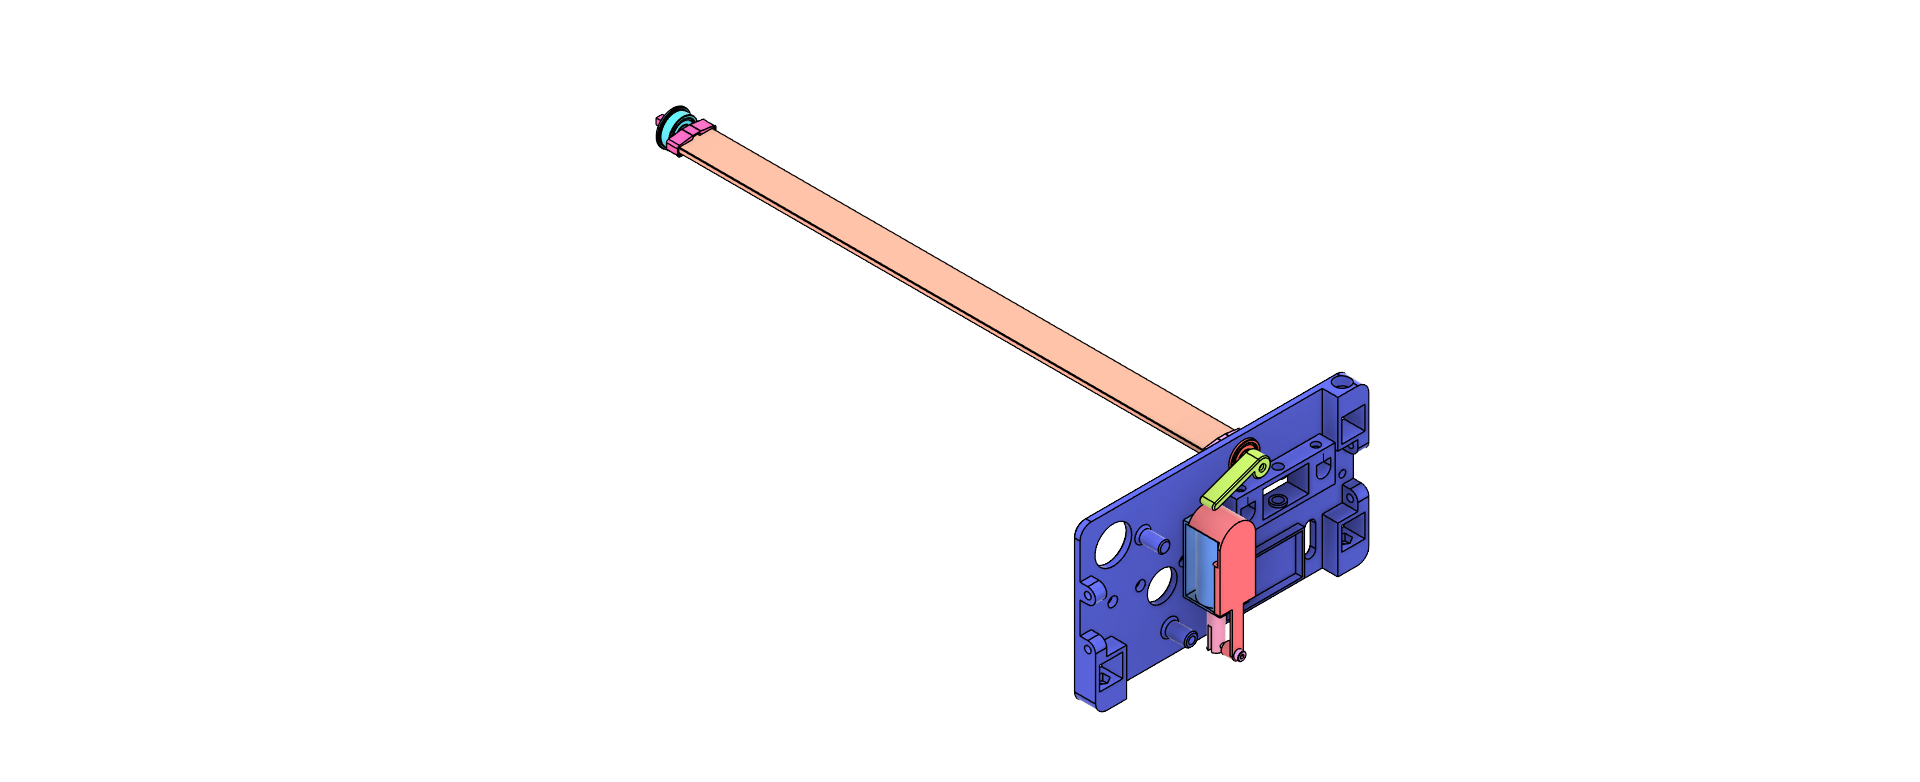
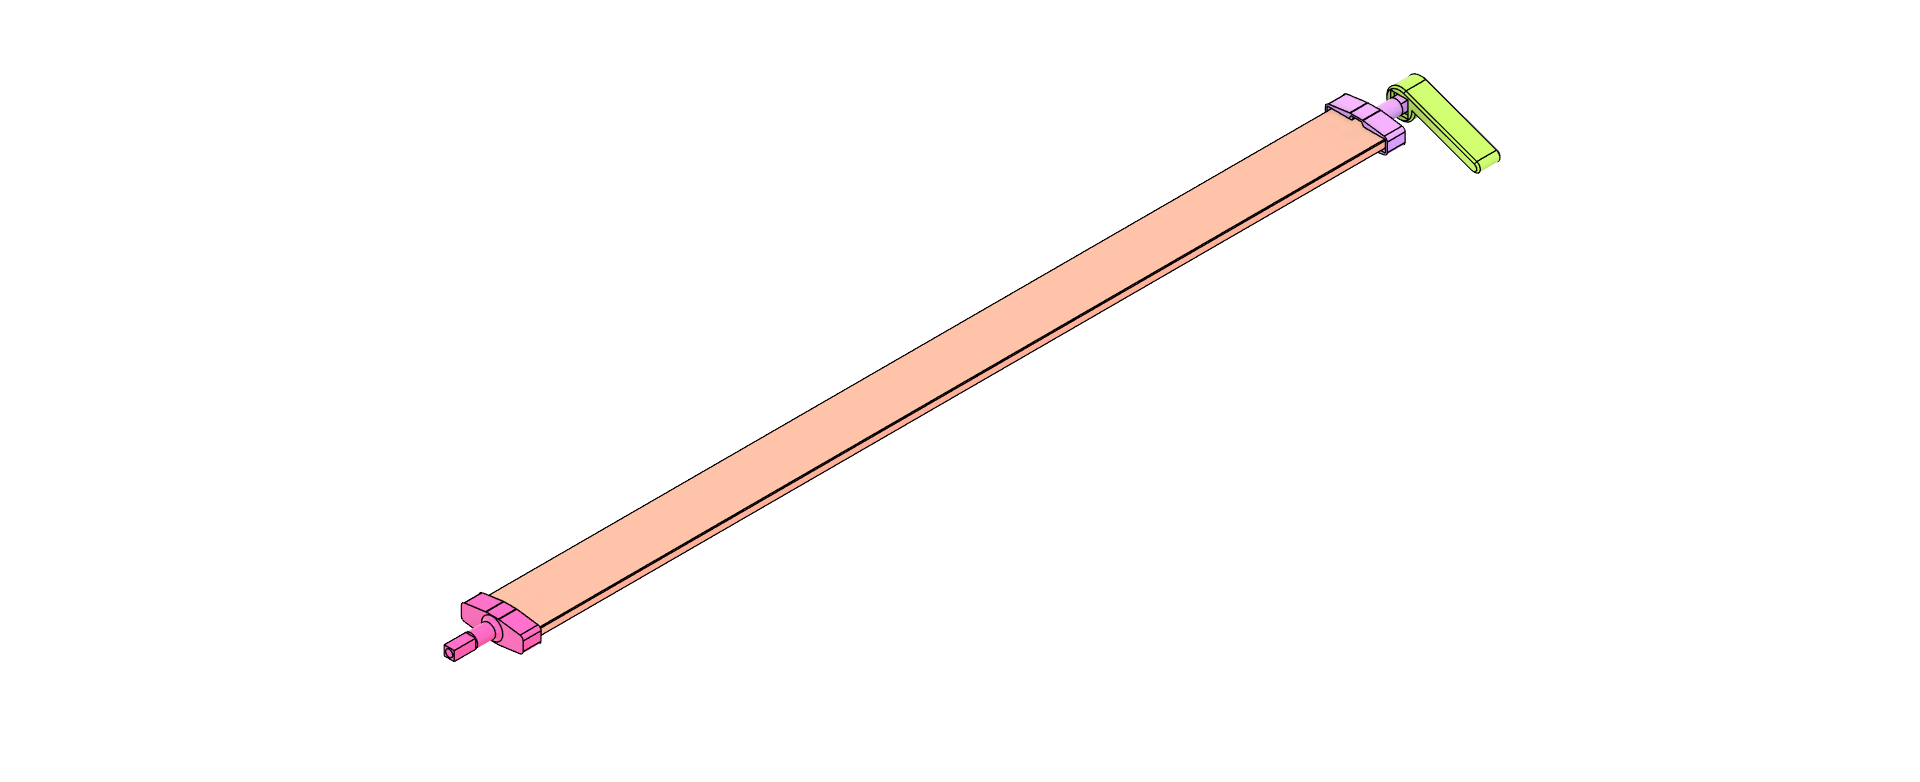
Improved readme and renderings

Changed region(s): [[0.2188, 0.0921, 0.7812, 0.9207]]

diff --git a/README.md b/README.md
@@ -1,14 +1,18 @@
-# gcode pen plotter
+# G-code Pen Plotter
 
-Plotter for drawing vector graphics in gcode format with a pen:
 
-- Use any pin up to 11mm diameter
-- rigid frame
-- low cost components
+
+This plotter draws vector graphics in G-code format using a pen.
+
+- Compatible with pens up to 11 mm in diameter
+- Rigid frame construction.
+- Uses affordable and widely available components.
 
 <img src="./print/zsb/full_nocolor.png" alt="full assembly"/>
 
-# Index
+
+
+# Table of Contents
 - [Mechanics](#Mechanics)
 - [Electronics](#Electronics)
 - [Software](#Software)
@@ -17,10 +21,10 @@ Plotter for drawing vector graphics in gcode format with a pen:
 
 ## Mechanics
 
-### 3D printed parts
+### 3D-Printed Parts
 
 | Quantity | Part | Material | Notes |
-| -------- | ---- | -------- | ----- |
+| ------- | ---- | -------- | ----- |
 | 1 | `./print/stl/carriage_penholder_base.stl`</BR><img src="./print/png/carriage_penholder_base.png"/> | PLA / PETG | |
 | 1 | `./print/stl/carriage_penholder_connector_fitting.stl`</BR><img src="./print/png/carriage_penholder_connector_fitting.png"/> | TPU | |
 | 1 | `./print/stl/carriage_penholder_connector_head.stl`</BR><img src="./print/png/carriage_penholder_connector_head.png"/> | PLA / PETG | |
@@ -32,27 +36,26 @@ Plotter for drawing vector graphics in gcode format with a pen:
 | 1 | `./print/stl/frame_front.stl`</BR><img src="./print/png/frame_front.png"/> | PLA / PETG |  |
 | 1 | `./print/stl/housing_back.stl`</BR><img src="./print/png/housing_back.png"/> | PLA / PETG | optional |
 | 1 | `./print/stl/housing_front.stl`</BR><img src="./print/png/housing_front.png"/> | PLA / PETG | optional |
-| 4 | `./print/png/housing_feet.stl`</BR><img src="./print/png/housing_feet.png"/> | TPU | Can use standard rubber dampers instead, e.g. https://de.aliexpress.com/item/1005008240903321.html |
-| 1 | `./print/stl/paper_guide_1.stl`</BR><img src="./print/png/paper_guide_1.png"/> | PLA / PETG | Use light supports |
-| 1 | `./print/stl/paper_guide_2.stl`</BR><img src="./print/png/paper_guide_2.png"/> | PLA / PETG | Use light supports |
+| 4 | `./print/png/housing_feet.stl`</BR><img src="./print/png/housing_feet.png"/> | TPU | Standard rubber dampers can be used instead, e.g. https://de.aliexpress.com/item/1005008240903321.html |
+| 1 | `./print/stl/paper_guide_1.stl`</BR><img src="./print/png/paper_guide_1.png"/> | PLA / PETG | Requires light supports. |
+| 1 | `./print/stl/paper_guide_2.stl`</BR><img src="./print/png/paper_guide_2.png"/> | PLA / PETG | Requires light supports. |
 | 1 | `./print/stl/paper_guide_lever.stl`</BR><img src="./print/png/paper_guide_lever.png"/> | PLA / PETG |  |
 | 2 | `./print/stl/paper_guide_pusher.stl`</BR><img src="./print/png/paper_guide_pusher.png"/> | PLA / PETG |  |
 | 2 | `./print/stl/paper_guide_roll_holder.stl`</BR><img src="./print/png/paper_guide_roll_holder.png"/> | PLA / PETG |  |
 | 4 | `./print/stl/paper_intake_support.stl`</BR><img src="./print/png/paper_intake_support.png"/> | PLA / PETG |  |
-| 1 | `./print/stl/shaft_connector_flange.stl`</BR><img src="./print/png/shaft_connector_flange.png"> | PLA / PETG | optional, if no standard couplers are used |
+| 1 | `./print/stl/shaft_connector_flange.stl`</BR><img src="./print/png/shaft_connector_flange.png"> | PLA / PETG | Optional, if standard couplers are not used. |
 | 1 | `./print/stl/shaft_end_flange.stl`</BR><img src="./print/png/shaft_end_flange.png"> | PLA / PETG |  |
-| 1 | `./print/stl/solenoid_slider.stl`</BR><img src="./print/png/solenoid_slider.png"> | PLA / PETG | If pull solenoid is used |
+| 1 | `./print/stl/solenoid_slider.stl`</BR><img src="./print/png/solenoid_slider.png"> | PLA / PETG | If a pull solenoid is used. |
 
-### Standard parts
-
-| Quantity | Part | Note |
-| -------- | ---- | ---- |
-| 3 | 12mm square rod aluminium/steel | min length for A4: 250mm w/o housing, 380mm with housing |
-| 2 | 6mm rounded aluminium/steel rod | min length for A4: 250mm |
-| 1 | 12mm shaft | min length for A4: 250mm |
+### Standard Parts
+| Quantity | Part | Notes |
+| ------- | ---- | ----- |
+| 3 | 12mm square rod aluminium/steel | Minimum length for A4: 250 mm without housing, 380 mm with housing. |
+| 2 | 6mm rounded aluminium/steel rod | Minimum length for A4: 250 mm. |
+| 1 | 12mm shaft | Minimum length for A4: 250 mm. |
 | 1 | Pull Solenoid 12V TAU-0530 | https://de.aliexpress.com/item/32748229525.html |
 | 4 | brass oil bar plain bearing, 6mm bore, 8mm outer diameter |  |
-| 4 | rubber foam dampers | optional, can also be printed. https://de.aliexpress.com/item/1005008240903321.html |
+| 4 | rubber foam dampers | Optional; can also be 3D-printed. https://de.aliexpress.com/item/1005008240903321.html |
 | 1 | 5mm/12mm shaft diameter couplings |
 | 3 | Stainless Steel Ball Bearing, Flanged | McMaster Part No: 57155K563 |
 | 2 | Stepper Motor with Square Body, NEMA 17 | McMaster Part No: 6627T64 |
@@ -64,50 +67,65 @@ Plotter for drawing vector graphics in gcode format with a pen:
 | 1 | hexagon nut, DIN 439-2 - M2 x 0.4 | For solenoid pin |
 | 22 | hexagon socket screw, DIN EN ISO 4762 - M3 x 6 | Standard screw used unless otherwise specified |
 | 4 | hexagon socket screw, DIN EN ISO 4762 - M3 x 30 | For shaft stepper |
-| 10 | hexagon nut, DIN 439-2 - M3 x 0.6 | Insert in front and back frame |
+| 10 | hexagon nut, DIN 439-2 - M3 x 0.6 | Insert into the front and back frame. |
 | 1 | threaded pin, DIN EN ISO 4027 - M4 x 16 | For timing belt idler |
-| 2 | hexagon socket screw, DIN EN ISO 4762 - M3 x 10 Stahl | For Carriage |
-| 2 | hexagon nut, DIN 439-2 - M5 x 0.8 | For Rollers |
-| 2 | hexagon socket screw, DIN EN ISO 4762 - M5 x 20 | For Rollers |
-| 2 | V nut POM wheel roller | Rollers |
+| 2 | hexagon socket screw, DIN EN ISO 4762 - M3 x 10 Stahl | For carriage. |
+| 2 | hexagon nut, DIN 439-2 - M5 x 0.8 | For rollers. |
+| 2 | hexagon socket screw, DIN EN ISO 4762 - M5 x 20 | For rollers. |
+| 2 | V nut POM wheel roller | For rollers. |
 
 
 ### Assembly
 
-Overview of base frame without supporting square rods:
+The following steps illustrate the assembly process. The order is chosen for clarity and may not reflect the optimal assembly sequence.
+
+
+Assemble the pen carriage, slide it over the rounded steel rods, and attach the timing pulley:
+<img src="./print/zsb/carriage.png.png">
+<img src="./print/zsb/carriage_timing_belt.png">
+
+Overview of the base frame structure with supporting square rods:
 <img src="./print/zsb/frame_front_back.png">
 
 
-Details paper guide and assembly to back of frame:
-<img src="./print/zsb/paper_guide.png">
-<img src="./print/zsb/back_paper_guide.png">
-
-
-Details flat steel lever:
+Slide the flanges onto the flat steel, insert them into the flanged bearing pressed into the frame, and secure by attaching the lever to the square rod of the flange. Install the solenoid and attach the slider cap:
 <img src="./print/zsb/flat_steel.png">
+<img src="./print/zsb/flat_steel_detail_back.png">
+<img src="./print/zsb/flat_steel_detail_front.png">
 
 
-Assemble shaft by screwing coupler to stepper, slide in steel shaft and fix with end flange to bearing on opposite frame:
+Assemble the paper guide by adding the rollers and lever, then insert it into the frame. Secure by screwing the lever to the back end and attaching the tension spring:
+<img src="./print/zsb/paper_guide.png">
+<img src="./print/zsb/paper_guide_detail_back.png">
+<img src="./print/zsb/paper_guide_detail_front.png">
+
+
+Assemble the shaft by attaching the coupler to the stepper, sliding in the steel shaft, and securing it with the end flange to the bearing on the opposite side of the frame:
 <img src="./print/zsb/shaft.png">
+<img src="./print/zsb/shaft_detail_back.png">
+<img src="./print/zsb/shaft_detail_front.png">
 
 
-Assemble pen carriage, slide over rounded steel rods and fix timing pulley:
-<img src="./print/zsb/carriage.png">
+
+Details of the paper intake support and its assembly to the frame, including the paper guide:
+<img src="./print/zsb/paper_intake_support.png">
+<img src="./print/zsb/paper_intake_support_detail_front.png">
 
 
-Full assembly:
+
+The completed assembly will look like this:
 <img src="./print/zsb/full_no_housing.png">
 
 
-Optional: glue feets to housing shells, slide them over the frame and rods and fix with screws to frame:  
+Optional: Glue the feet to the housing shells, slide them over the frame and rods, and secure with screws to the frame:  
 <img src="./print/zsb/full.png">
 
 ## Electronics
 
-Coming soon
+Coming soon.
 
 
 
 ## Software
 
-Coming soon
+Coming soon.
